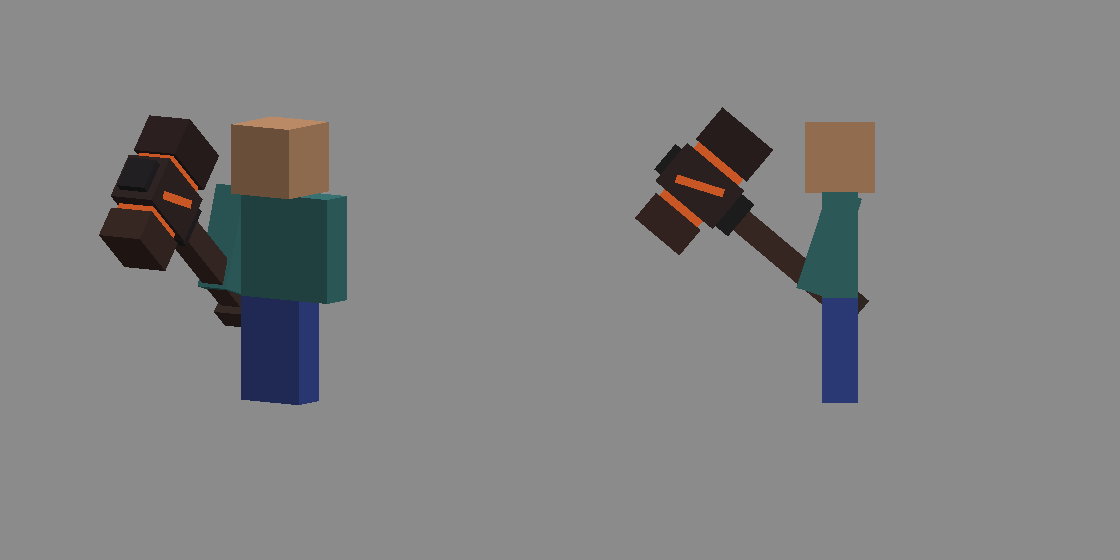
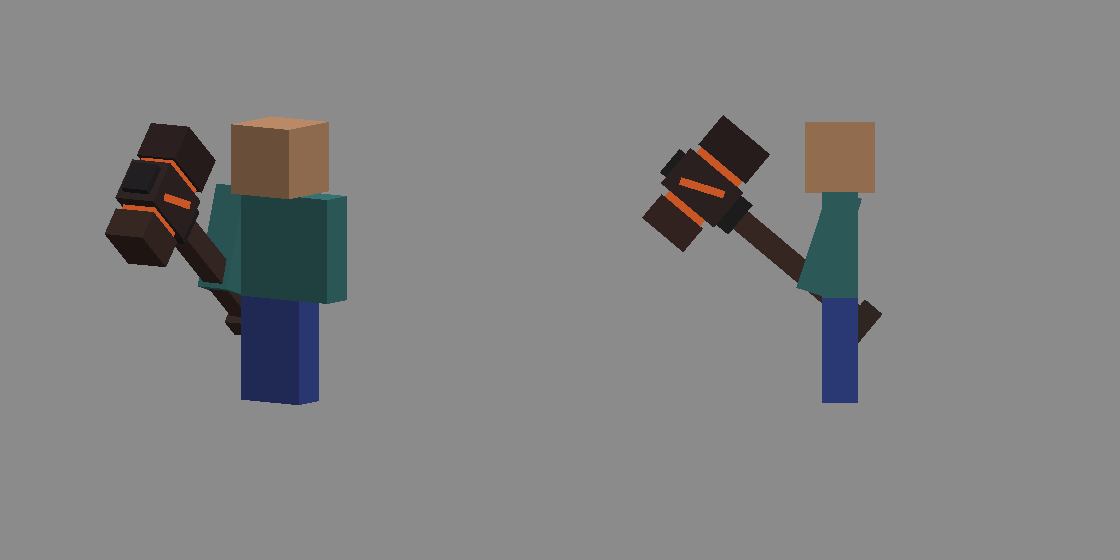
FluxDungeons: Coeur-de-Sylve, the druid's staff; taller hammer at the normal scale

diff --git a/FluxDungeons/assets/armes/gen_armes.py b/FluxDungeons/assets/armes/gen_armes.py
@@ -1,7 +1,7 @@
 #!/usr/bin/env python3
 """Class weapons of the RPG universe in 3D: Brise-Aube, Sylve-Celeste, Sceptre du Neant, Reliquaire de l'Aube,
-Coeur-de-Givre (the cryomancer's staff) and Tison-Soleil (the pyromancer's hammer), these two with textures painted
-here pixel by pixel.
+Coeur-de-Givre (the cryomancer's staff), Tison-Soleil (the pyromancer's hammer) and Coeur-de-Sylve (the druid's
+staff), these three with textures painted here pixel by pixel.
 
     <venv with Pillow and numpy>/python3 gen_armes.py <ItemsAdder/contents/fluxdungeons> [previews dir] [sheet.md]
 
@@ -410,7 +410,7 @@ def coeur_de_givre():
 
 
 def tison_soleil():
-    """Pyromancer's hammer, 30 units tall: three blocks of volcanic rock parted by two seams of magma set back into
+    """Pyromancer's hammer, 34 units tall: three blocks of volcanic rock parted by two seams of magma set back into
     the head, one crack across the middle block, blackened iron holding it on a charred shaft."""
     w = Weapon("tison_soleil", "Tison-Soleil", "Pyromancien",
                "Grand marteau à deux mains : manche de bois carbonisé, talon de métal noirci ; tête massive et "
@@ -454,11 +454,11 @@ def tison_soleil():
                  "roche": rock("#392D2B", "#65443A", "#241F20"), "roche_gauche": rock("#44302B", "#65443A", "#30231F"),
                  "roche_droite": rock("#352726", "#4A3530", "#241F20")}
     w.group("talon")
-    w.box("talon", [5.5, -8, 6], [10.5, -5, 10], "talon", note="5 x 3 x 4")
+    w.box("talon", [5.5, -12, 6], [10.5, -9, 10], "talon", note="5 x 3 x 4")
     w.group("manche")
-    # two cubes: a face never stretches its texture beyond 16 units
-    w.box("manche_bas", [6.5, -5, 6.5], [9.5, 3, 9.5], "bois_brule", note="zone de prise")
-    w.box("manche_haut", [6.5, 3, 6.5], [9.5, 10, 9.5], "bois_brule")
+    # two cubes: a face never stretches its texture beyond 16 units. Long shaft: the hammer is imposing by its height
+    w.box("manche_bas", [6.5, -9, 6.5], [9.5, 1, 9.5], "bois_brule", note="zone de prise")
+    w.box("manche_haut", [6.5, 1, 6.5], [9.5, 10, 9.5], "bois_brule")
     w.group("renforts")
     w.box("collier", [5.5, 10, 6], [10.5, 12, 10], "fer", note="sous la tête")
     w.box("coin", [6, 21, 6], [10, 22, 10], "fer", note="coin de fer au sommet, là où le manche traverse la tête")
@@ -473,7 +473,78 @@ def tison_soleil():
     return w
 
 
-WEAPONS = [brise_aube, sylve_celeste, sceptre_neant, reliquaire_aube, coeur_de_givre, tison_soleil]
+def coeur_de_sylve():
+    """Druid's staff, 36 units tall like the cryomancer's: an old matt stone held in a fork of two roots which grow
+    outwards then back over it, one shoot at the tip of the longer root, nothing floating, nothing glowing."""
+    w = Weapon("coeur_de_sylve", "Cœur-de-Sylve", "Druide",
+               "Grand bâton à deux mains : manche de bois ancien vivant, pied évasé comme une racine épaisse ; au "
+               "sommet, une pierre ancienne mate posée dans la fourche de deux racines qui partent vers l'extérieur "
+               "puis reviennent sur elle (la gauche plus longue, la droite plus sombre et plus courte), une seule "
+               "jeune pousse au bout de la racine gauche, deux excroissances de racine à la jonction du manche.",
+               {"bois_vivant": ("#514333", "Bois ancien vivant", False), "pied": ("#62503A", "Pied de racine", False),
+                "pierre": ("#71816A", "Pierre ancienne", False), "racine_claire": ("#70543A", "Racine de gauche", False),
+                "racine_sombre": ("#59432F", "Racine de droite", False), "branche": ("#72573A", "Ramifications", False),
+                "pousse": ("#55794A", "Jeune pousse", False), "excroissance": ("#604A34", "Excroissances de racine", False)})
+
+    def living_wood(x, y):
+        # uneven veins, lighter where the edge catches the light, two touches of ochre: no parallel stripes
+        if (x, y) in ((1, 6), (0, 2)):
+            return "#98764D"
+        if x % 3 == 0:
+            return "#514333" if y % 7 in (4, 5) else "#80694A"
+        if x % 3 == 2 or x % 3 == 1 and y % 9 in (1, 2, 3):
+            return "#352B25"
+        return "#514333"
+
+    def fibre(base, light, shadow):
+        # root: lit along one side, dark along the other, a fibre breaking the middle now and then
+        def pixel(x, y):
+            if x % 3 == 0:
+                return light if y % 5 != 2 else base
+            if x % 3 == 2:
+                return shadow
+            return shadow if y % 6 == 4 else base
+        return pixel
+
+    def old_stone(x, y):
+        # matt mineral masses: a pale band where the light falls, grey green body, shade below and on the right
+        if y == 0 and x < 5 or x == 0 and y < 3 or (x, y) in ((2, 2), (3, 2)):
+            return "#A6B18A"
+        if y >= 6 or x >= 5 and y >= 3 or (x, y) == (3, 5):
+            return "#465447"
+        return "#71816A"
+
+    def shoot(x, y):
+        return "#8DA86A" if x + y <= 1 else ("#36533A" if x + y >= 3 else "#55794A")
+
+    def foot(x, y):
+        return "#3C3328" if y >= 2 or x >= 3 else "#62503A"
+
+    w.painted = {"bois_vivant": living_wood, "pied": foot, "pierre": old_stone, "pousse": shoot,
+                 "racine_claire": fibre("#70543A", "#98764D", "#514333"), "racine_sombre": fibre("#59432F", "#826548", "#352B25"),
+                 "branche": fibre("#72573A", "#98764D", "#514333"), "excroissance": fibre("#604A34", "#80694A", "#352B25")}
+    w.group("pied")
+    w.box("pied", [6, -12, 6], [10, -9, 10], "pied", note="4 x 3 x 4, évasé comme une racine épaisse")
+    w.group("manche")
+    # two cubes of 11: a face never stretches its texture beyond 16 units
+    w.box("manche_bas", [6.5, -9, 6.5], [9.5, 2, 9.5], "bois_vivant", note="zone de prise")
+    w.box("manche_haut", [6.5, 2, 6.5], [9.5, 13, 9.5], "bois_vivant")
+    w.group("excroissances")
+    w.box("excroissance_g", [4.5, 10.5, 6.5], [6.5, 13.5, 9.5], "excroissance", note="porte la racine de gauche")
+    w.box("excroissance_d", [9.5, 10.5, 6.5], [11.5, 13.5, 9.5], "excroissance", note="porte la racine de droite")
+    w.group("pierre")
+    w.box("pierre", [4.5, 14, 5.5], [11.5, 22, 10.5], "pierre", note="élément principal, 7 x 8 x 5")
+    w.box("pierre_sommet", [5.5, 22, 6], [10, 23.5, 10], "pierre", note="rend la pierre irrégulière")
+    w.group("racines")
+    end = w.seg("racine_g", (5.0, 12.5), 22.5, 6.0, 3.0, 3.0, "racine_claire", note="part vers l'extérieur")
+    end = w.seg("ramification_g", end, -22.5, 5.0, 2.5, 3.0, "branche", note="revient sur la pierre")
+    w.c("pousse", [end[0] + 0.3, end[1] + 1.0, 8], [2.4, 2.4, 2.0], "pousse", ("z", 45), "seule jeune pousse, au bout de la racine gauche")
+    end = w.seg("racine_d", (11.0, 12.5), -22.5, 4.5, 3.0, 3.0, "racine_sombre", note="plus courte et plus sombre")
+    w.seg("ramification_d", end, 22.5, 5.0, 2.5, 3.0, "branche", note="revient sur la pierre")
+    return w
+
+
+WEAPONS = [brise_aube, sylve_celeste, sceptre_neant, reliquaire_aube, coeur_de_givre, tison_soleil, coeur_de_sylve]
 
 # ------------------------------------------------------------------------------------------- displays
 # Vanilla references (assets/minecraft/models/item/handheld.json and bow.json) and the point of their sprite held
@@ -501,7 +572,9 @@ DISPLAYS = {
     # Cryomancer's staff: 36 units tall, the fist a little under the middle of the shaft. An imposing weapon is a tall
     # one: scaling it up in first person only made its head huge (tried 2026-11-20).
     "coeur_de_givre": ("handheld", 45, (8, -0.5, 8), (-47, 0.85), (10, 0.52)),
-    "tison_soleil": ("handheld", 45, (8, -1, 8), (-32, 0.95), (0, 0.62)),
+    # same height and hold as the cryomancer's staff, the size the owner approved
+    "coeur_de_sylve": ("handheld", 45, (8, -0.5, 8), (-47, 0.85), (10, 0.52)),
+    "tison_soleil": ("handheld", 45, (8, -2, 8), (-32, 0.88), (0, 0.52)),
 }
 # Spin of the weapon around its own axis (degrees) before it is held: the bow was held back to front in game, its
 # back (grip, crystal, +X) towards the player and the string away (2026-11-13). 180 = back forward, string inward.

diff --git a/FluxDungeons/assets/armes/FICHES.md b/FluxDungeons/assets/armes/FICHES.md
@@ -401,12 +401,12 @@ Grand marteau à deux mains : manche de bois carbonisé, talon de métal noirci 
 
 | Dimension | Valeur |
 |---|---|
-| Longueur (Y) | 30 (de -8 à 22) |
+| Longueur (Y) | 34 (de -12 à 22) |
 | Largeur max (X) | 17 (de 0 à 17) |
 | Épaisseur max (Z) | 6.2 |
-| Prise (point tenu par le poing) | (8, -1, 8) |
-| Centre visuel (milieu de l'encombrement) | (8.5, 7, 8) |
-| Longueur en main, 3e personne | 28.5 px de joueur (joueur = 32) |
+| Prise (point tenu par le poing) | (8, -2, 8) |
+| Centre visuel (milieu de l'encombrement) | (8.5, 5, 8) |
+| Longueur en main, 3e personne | 29.92 px de joueur (joueur = 32) |
 | Nombre de cubes | **11** |
 
 Palette :
@@ -425,9 +425,9 @@ Hiérarchie (groupes, dans l'ordre de construction) : `talon` (1), `manche` (2),
 
 | # | Groupe | Cube | De (x, y, z) | À (x, y, z) | Taille | Rotation | Matériau | Note |
 |---|---|---|---|---|---|---|---|---|
-| 1 | talon | `talon` | 5.5 -8 6 | 10.5 -5 10 | 5 × 3 × 4 |  | `talon` | 5 x 3 x 4 |
-| 2 | manche | `manche_bas` | 6.5 -5 6.5 | 9.5 3 9.5 | 3 × 8 × 3 |  | `bois_brule` | zone de prise |
-| 3 | manche | `manche_haut` | 6.5 3 6.5 | 9.5 10 9.5 | 3 × 7 × 3 |  | `bois_brule` |  |
+| 1 | talon | `talon` | 5.5 -12 6 | 10.5 -9 10 | 5 × 3 × 4 |  | `talon` | 5 x 3 x 4 |
+| 2 | manche | `manche_bas` | 6.5 -9 6.5 | 9.5 1 9.5 | 3 × 10 × 3 |  | `bois_brule` | zone de prise |
+| 3 | manche | `manche_haut` | 6.5 1 6.5 | 9.5 10 9.5 | 3 × 9 × 3 |  | `bois_brule` |  |
 | 4 | renforts | `collier` | 5.5 10 6 | 10.5 12 10 | 5 × 2 × 4 |  | `fer` | sous la tête |
 | 5 | renforts | `coin` | 6 21 6 | 10 22 10 | 4 × 1 × 4 |  | `fer` | coin de fer au sommet, là où le manche traverse la tête |
 | 6 | tete | `bloc_central` | 5 12 5 | 11 21 11 | 6 × 9 × 6 |  | `roche` | 6 x 9 x 6 |
@@ -441,12 +441,70 @@ Affichages (`display` du modèle) :
 
 | Contexte | Rotation | Translation | Échelle |
 |---|---|---|---|
-| `thirdperson_righthand` | 0 -90 -22 | 0 6.6 4.64 | 0.95 |
-| `thirdperson_lefthand` | 0 90 22 | 0 6.6 4.64 | 0.95 |
-| `firstperson_righthand` | 0 -90 -20 | 1.13 4.38 1.56 | 0.62 |
-| `firstperson_lefthand` | 0 90 20 | 1.13 4.38 1.56 | 0.62 |
-| `gui` | 0 0 -45 | -0.6 -0.3 0 | 0.566 |
-| `fixed` | 0 180 45 | -0.28 -0.56 0 | 0.53 |
-| `on_shelf` | 0 180 45 | -0.28 -0.56 0 | 0.53 |
-| `ground` | 0 0 0 | -0.18 0.37 0 | 0.367 |
+| `thirdperson_righthand` | 0 -90 -22 | 0 6.83 4.74 | 0.88 |
+| `thirdperson_lefthand` | 0 90 22 | 0 6.83 4.74 | 0.88 |
+| `firstperson_righthand` | 0 -90 -20 | 1.13 4.02 1.43 | 0.52 |
+| `firstperson_lefthand` | 0 90 20 | 1.13 4.02 1.43 | 0.52 |
+| `gui` | 0 0 -45 | 0.18 0.45 0 | 0.514 |
+| `fixed` | 0 180 45 | 0.43 0.17 0 | 0.482 |
+| `on_shelf` | 0 180 45 | 0.43 0.17 0 | 0.482 |
+| `ground` | 0 0 0 | -0.16 0.97 0 | 0.324 |
+| `head` | 0 180 0 | 0 13 7 | 0.6 |
+
+## Cœur-de-Sylve (Druide) : `fluxdungeons:coeur_de_sylve`
+
+Grand bâton à deux mains : manche de bois ancien vivant, pied évasé comme une racine épaisse ; au sommet, une pierre ancienne mate posée dans la fourche de deux racines qui partent vers l'extérieur puis reviennent sur elle (la gauche plus longue, la droite plus sombre et plus courte), une seule jeune pousse au bout de la racine gauche, deux excroissances de racine à la jonction du manche.
+
+| Dimension | Valeur |
+|---|---|
+| Longueur (Y) | 37.36 (de -12 à 25.36) |
+| Largeur max (X) | 13.058 (de 1.184 à 14.242) |
+| Épaisseur max (Z) | 5 |
+| Prise (point tenu par le poing) | (8, -0.5, 8) |
+| Centre visuel (milieu de l'encombrement) | (7.713, 6.68, 8) |
+| Longueur en main, 3e personne | 31.756 px de joueur (joueur = 32) |
+| Nombre de cubes | **12** |
+
+Palette :
+
+| Matériau (texture) | Couleur | Lumineux |
+|---|---|---|
+| `bois_vivant` | Bois ancien vivant `#514333` |  |
+| `pied` | Pied de racine `#62503A` |  |
+| `pierre` | Pierre ancienne `#71816A` |  |
+| `racine_claire` | Racine de gauche `#70543A` |  |
+| `racine_sombre` | Racine de droite `#59432F` |  |
+| `branche` | Ramifications `#72573A` |  |
+| `pousse` | Jeune pousse `#55794A` |  |
+| `excroissance` | Excroissances de racine `#604A34` |  |
+
+Hiérarchie (groupes, dans l'ordre de construction) : `pied` (1), `manche` (2), `excroissances` (2), `pierre` (2), `racines` (5)
+
+| # | Groupe | Cube | De (x, y, z) | À (x, y, z) | Taille | Rotation | Matériau | Note |
+|---|---|---|---|---|---|---|---|---|
+| 1 | pied | `pied` | 6 -12 6 | 10 -9 10 | 4 × 3 × 4 |  | `pied` | 4 x 3 x 4, évasé comme une racine épaisse |
+| 2 | manche | `manche_bas` | 6.5 -9 6.5 | 9.5 2 9.5 | 3 × 11 × 3 |  | `bois_vivant` | zone de prise |
+| 3 | manche | `manche_haut` | 6.5 2 6.5 | 9.5 13 9.5 | 3 × 11 × 3 |  | `bois_vivant` |  |
+| 4 | excroissances | `excroissance_g` | 4.5 10.5 6.5 | 6.5 13.5 9.5 | 2 × 3 × 3 |  | `excroissance` | porte la racine de gauche |
+| 5 | excroissances | `excroissance_d` | 9.5 10.5 6.5 | 11.5 13.5 9.5 | 2 × 3 × 3 |  | `excroissance` | porte la racine de droite |
+| 6 | pierre | `pierre` | 4.5 14 5.5 | 11.5 22 10.5 | 7 × 8 × 5 |  | `pierre` | élément principal, 7 x 8 x 5 |
+| 7 | pierre | `pierre_sommet` | 5.5 22 6 | 10 23.5 10 | 4.5 × 1.5 × 4 |  | `pierre` | rend la pierre irrégulière |
+| 8 | racines | `racine_g` | 2.352 11.922 6.5 | 5.352 18.622 9.5 | 3 × 6.7 × 3 | Z 22.5° autour de (3.852, 15.272, 8) | `racine_claire` | part vers l'extérieur |
+| 9 | racines | `ramification_g` | 2.411 17.503 6.5 | 4.911 23.203 9.5 | 2.5 × 5.7 × 3 | Z -22.5° autour de (3.661, 20.353, 8) | `branche` | revient sur la pierre |
+| 10 | racines | `pousse` | 3.717 22.463 7 | 6.117 24.863 9 | 2.4 × 2.4 × 2 | Z 45° autour de (4.917, 23.663, 8) | `pousse` | seule jeune pousse, au bout de la racine gauche |
+| 11 | racines | `racine_d` | 10.361 11.979 6.5 | 13.361 17.179 9.5 | 3 × 5.2 × 3 | Z -22.5° autour de (11.861, 14.579, 8) | `racine_sombre` | plus courte et plus sombre |
+| 12 | racines | `ramification_d` | 10.515 16.117 6.5 | 13.015 21.817 9.5 | 2.5 × 5.7 × 3 | Z 22.5° autour de (11.765, 18.967, 8) | `branche` | revient sur la pierre |
+
+Affichages (`display` du modèle) :
+
+| Contexte | Rotation | Translation | Échelle |
+|---|---|---|---|
+| `thirdperson_righthand` | 0 -90 -37 | 0 4.44 5.79 | 0.85 |
+| `thirdperson_lefthand` | 0 90 37 | 0 4.44 5.79 | 0.85 |
+| `firstperson_righthand` | 0 -90 -10 | 1.13 3.49 0.42 | 0.52 |
+| `firstperson_lefthand` | 0 90 10 | 1.13 3.49 0.42 | 0.52 |
+| `gui` | 0 0 -45 | 0.77 0.29 0 | 0.533 |
+| `fixed` | 0 180 45 | 0.28 0.72 0 | 0.5 |
+| `on_shelf` | 0 180 45 | 0.28 0.72 0 | 0.5 |
+| `ground` | 0 0 0 | 0.08 0.39 0 | 0.294 |
 | `head` | 0 180 0 | 0 13 7 | 0.6 |
